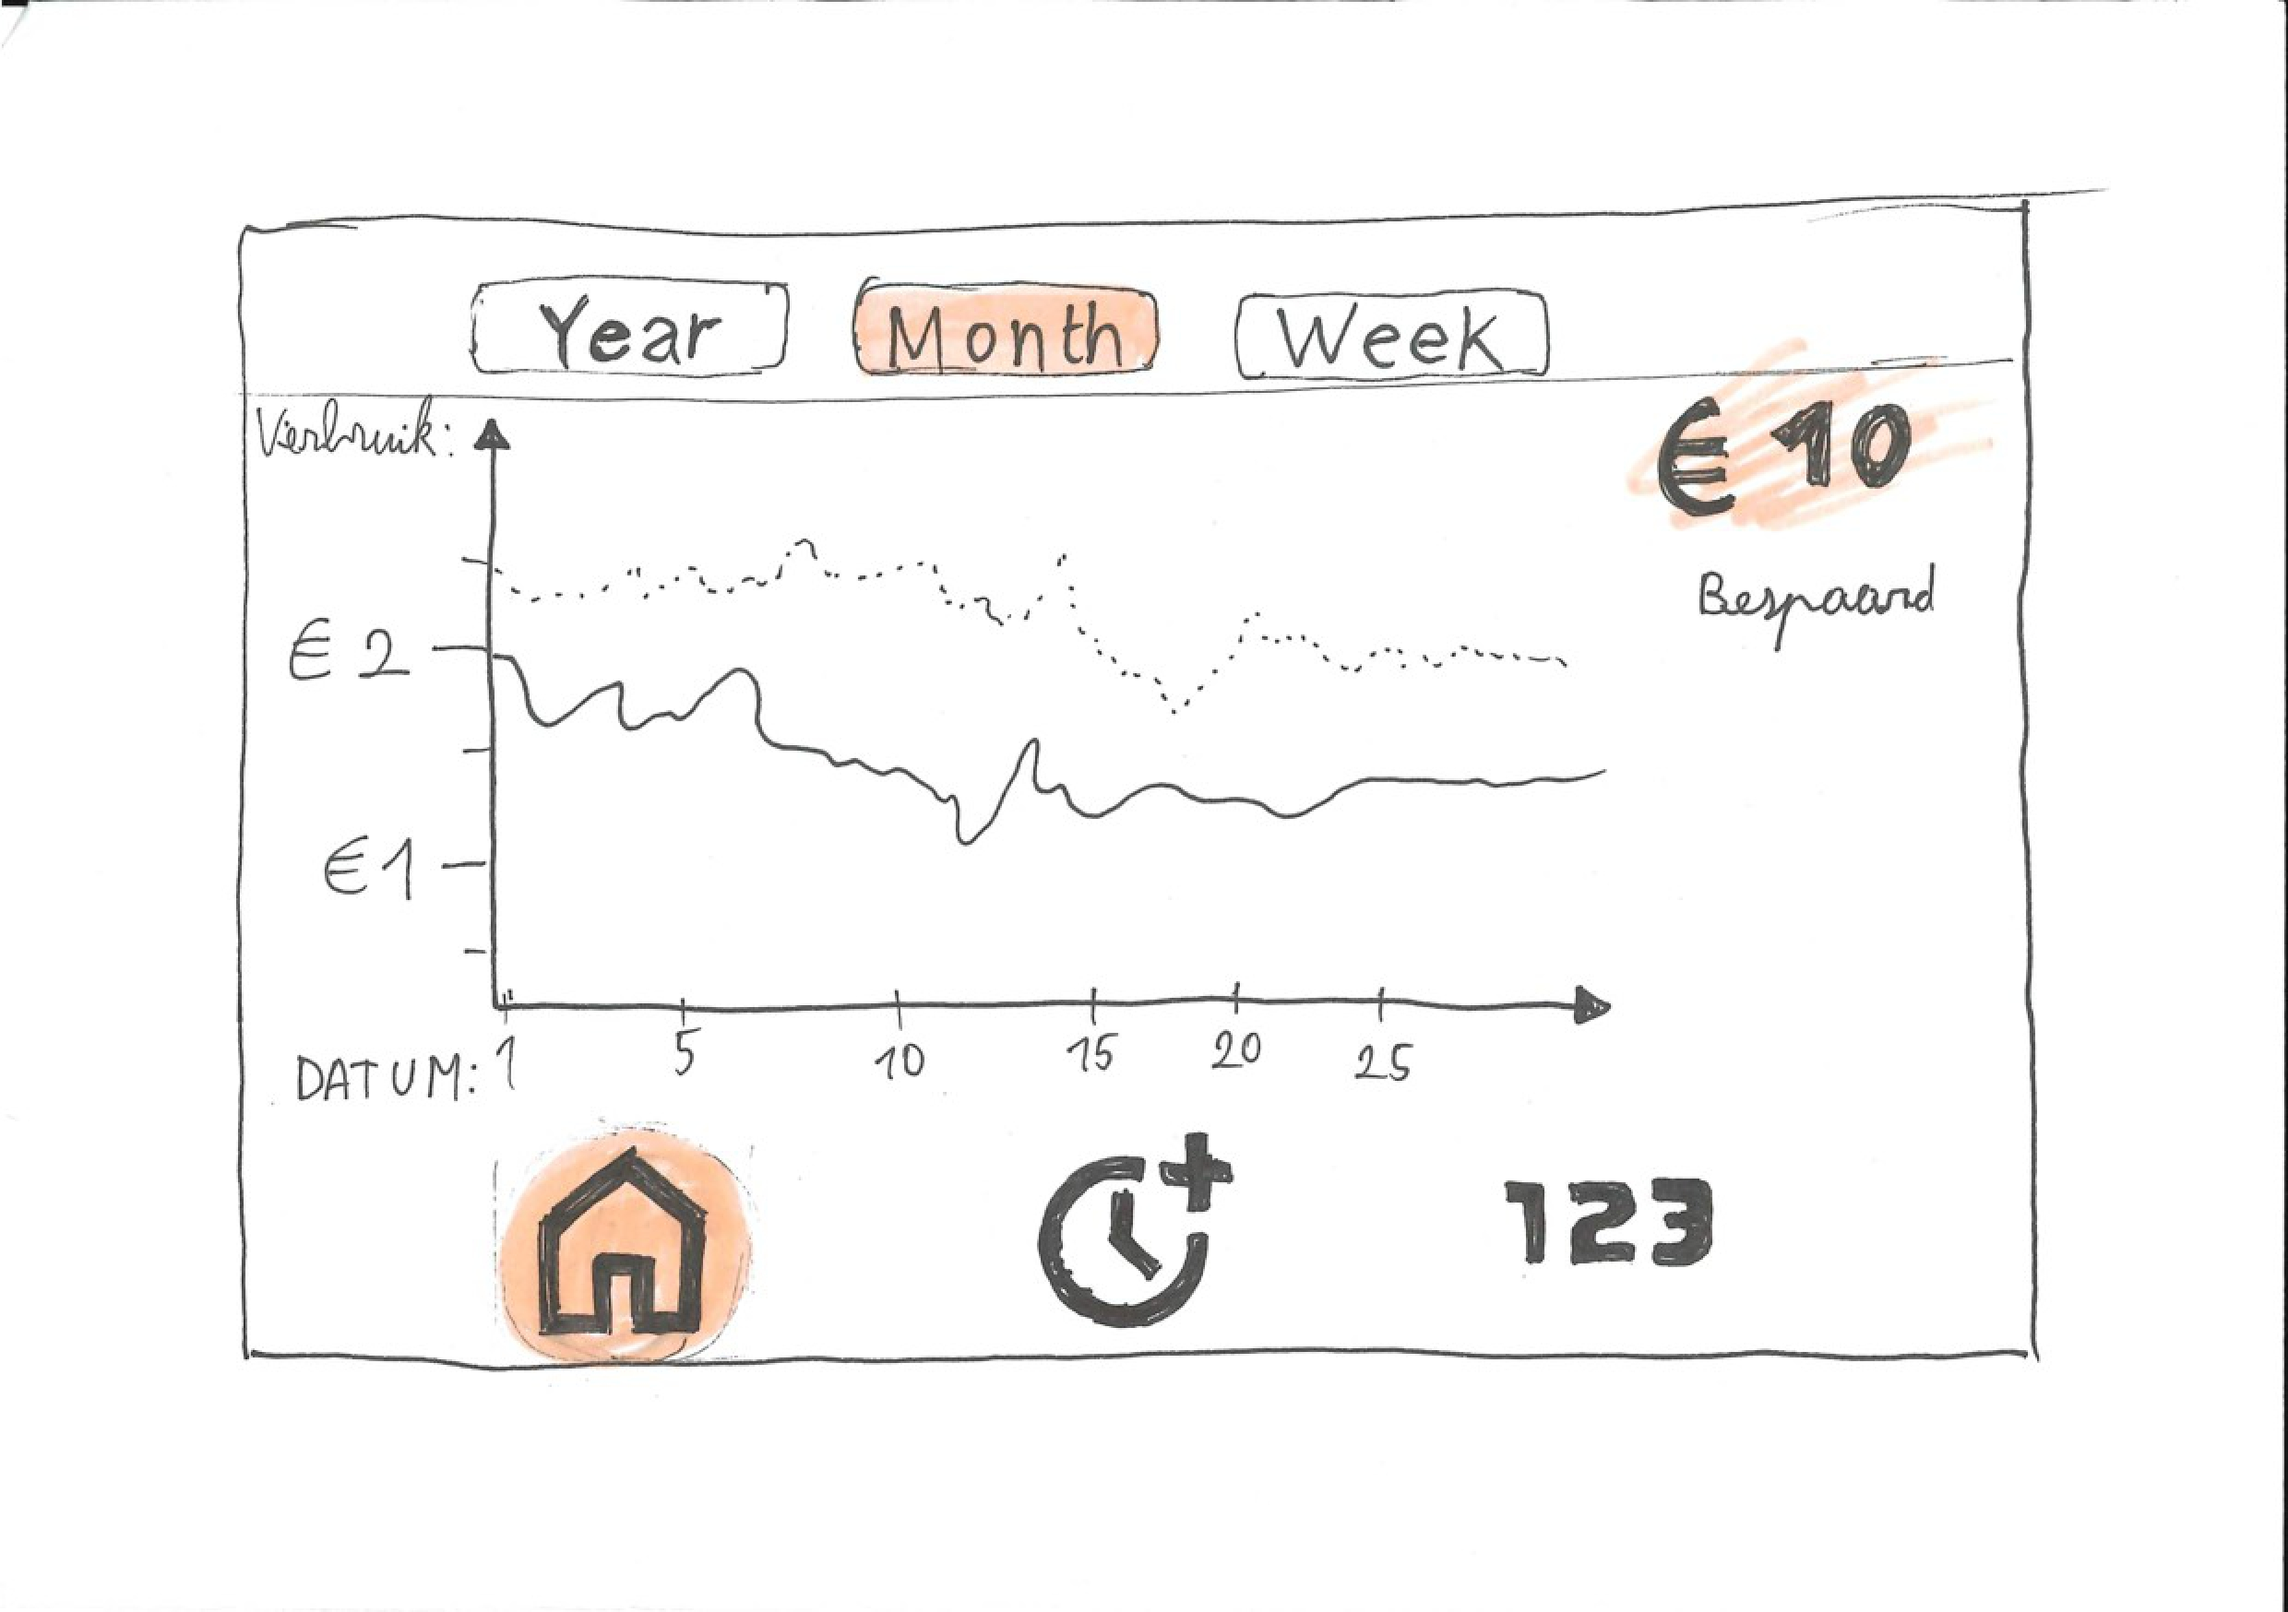
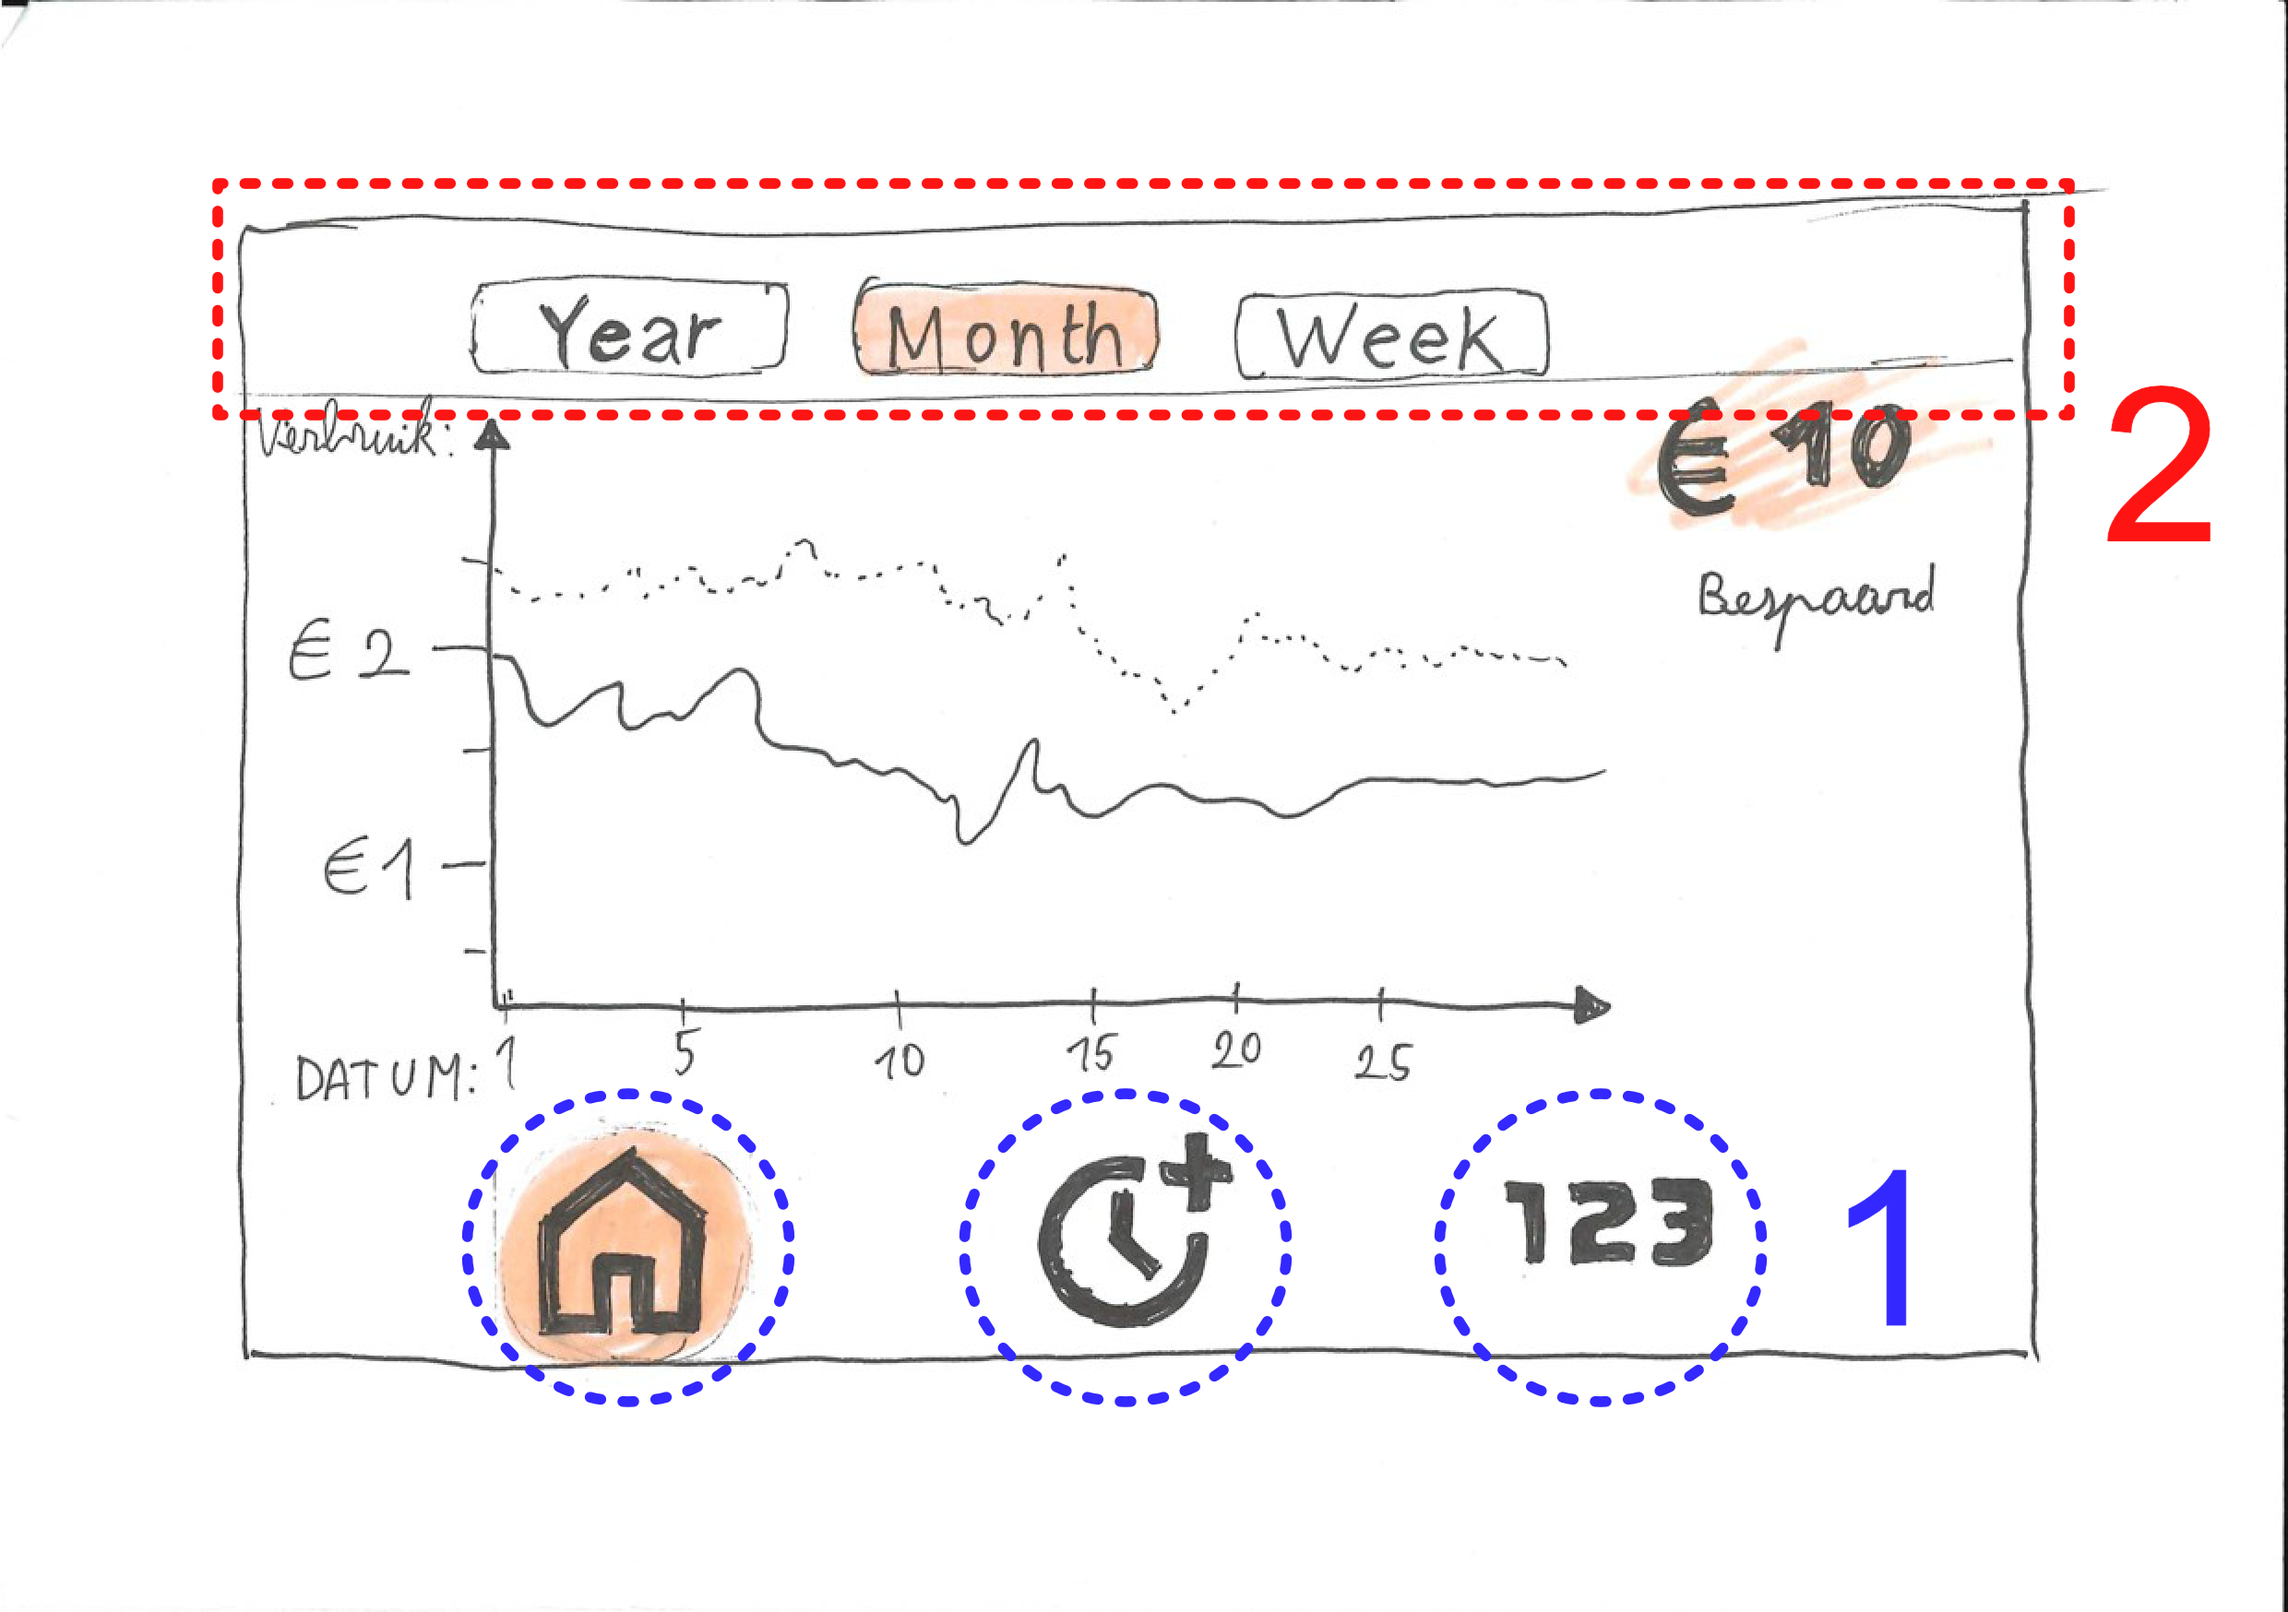
Update img

diff --git a/docs/opstellen_interfaces.md b/docs/opstellen_interfaces.md
@@ -10,13 +10,13 @@ Bij het opstellen van de interfaces werd gebruik gemaakt van de "Gestalt wetten"
 
 ### Interface 1
 
-De grote knoppen, aan de onderkant van het scherm maken gebruik van **Similarity**, waardoor de onderkant van het scherm als een aparte zone gezien zou kunnen worden. Ook "year", "month" en "Week" -knoppen maken gebruik van similarity.
+De grote knoppen, aan de onderkant van het scherm maken gebruik van **Similarity**(1), waardoor de onderkant van het scherm als een aparte zone gezien zou kunnen worden. Ook "year", "month" en "Week" -knoppen maken gebruik van similarity.
 
-**law of common region** werdt gebruikt om de knoppen "year", "month" en "Week" af te zonderen van de rest van het scherm.
+**law of common region**(2) werdt gebruikt om de knoppen "year", "month" en "Week" af te zonderen van de rest van het scherm.
 
 <p align="left"><img src="../img/Interface1 pg1.jpg" width="50%"></p>
 
-Op pagina 2 & 3 van dit interface werd **law of common region** gebruikt, om informatie te groeperen per apparaat (zoals naam en limieten).
+Op pagina 2 & 3 van dit interface werd **law of common region**(2) gebruikt, om informatie te groeperen per apparaat (zoals naam en limieten).
 <p align="left"><img src="../img/Interface1 pg2.jpg" width="50%"></p>
 
 ### Interface 2
@@ -34,12 +34,12 @@ choices."
 
 => Een klein aantal knoppen en mogelijke interacties, zorgt voor een snellere en intuïtievere navigatie.
 
-Verder werdt **law of common region** gebruikt om alle instellingen te groeperen en af te zonderen van het verbruik.
+Verder werdt **law of common region**(2) gebruikt om alle instellingen te groeperen en af te zonderen van het verbruik.
 Ook om deze instellingen te groeperen per apparaat werd law of common region gebruikt.
 
-Het principe van **similarity** werd toegepast op de "1 year", "1 month" en "1 Week" -knoppen.
+Het principe van **similarity**(1) werd toegepast op de "1 year", "1 month" en "1 Week" -knoppen.
 
-**Continuation** werd gebruikt om duidelijk te maken dat het interface verder loopt dan de gebruiker kan zien. Er kan dus nog naar beneden genavigeerd worden... Dit werdt al volgt toegepast:
+**Continuation**(3) werd gebruikt om duidelijk te maken dat het interface verder loopt dan de gebruiker kan zien. Er kan dus nog naar beneden genavigeerd worden... Dit werdt al volgt toegepast:
 -  De kader rond de instellingen wordtr afgesneden door de onderkant van het scherm
 - het onderste apparaat wordt doormidden gesneden door de onderkant van het scherm.
 
